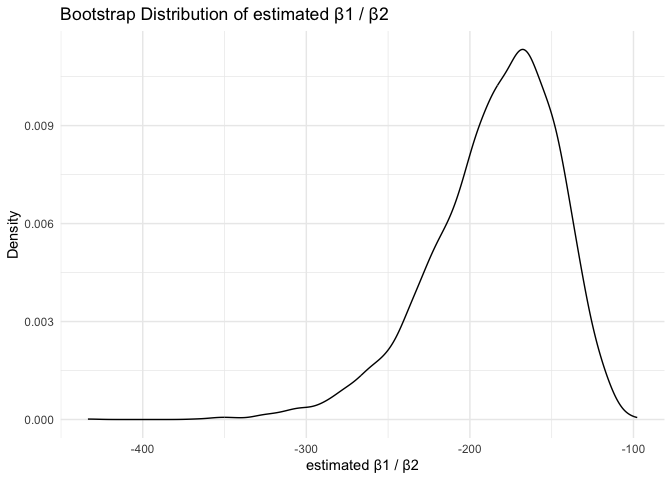
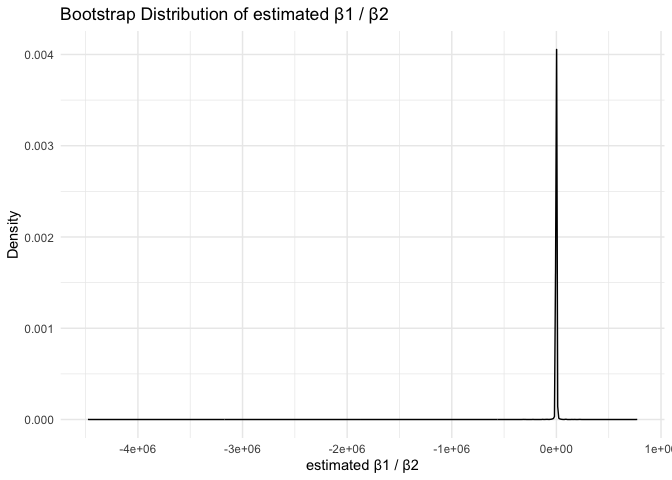
format updatted

diff --git a/p8105_hw6_ym3077.md b/p8105_hw6_ym3077.md
@@ -29,20 +29,6 @@ library(modelr)
     ##     bootstrap
 
 ``` r
-library(mgcv)
-```
-
-    ## Loading required package: nlme
-    ## 
-    ## Attaching package: 'nlme'
-    ## 
-    ## The following object is masked from 'package:dplyr':
-    ## 
-    ##     collapse
-    ## 
-    ## This is mgcv 1.9-3. For overview type 'help("mgcv-package")'.
-
-``` r
 library(ggplot2)
 library(p8105.datasets)
 ```
@@ -151,7 +137,7 @@ city_OR = homicides_df |>
   select(city_state, tidy_result) |>
   unnest(tidy_result) |>
   filter(term == "victim_sexMale") |>
-  select(city_state, OR, OR_low, OR_high)
+  select(city_state, OR, OR_low, OR_high) 
 ```
 
     ## Warning: There were 43 warnings in `mutate()`.
@@ -162,58 +148,23 @@ city_OR = homicides_df |>
     ## ℹ Run `dplyr::last_dplyr_warnings()` to see the 42 remaining warnings.
 
 ``` r
-knitr::kable(city_OR, digits = 3)
+city_OR
 ```
 
-| city_state         |    OR | OR_low | OR_high |
-|:-------------------|------:|-------:|--------:|
-| Albuquerque, NM    | 1.767 |  0.825 |   3.762 |
-| Atlanta, GA        | 1.000 |  0.680 |   1.458 |
-| Baltimore, MD      | 0.426 |  0.324 |   0.558 |
-| Baton Rouge, LA    | 0.381 |  0.204 |   0.684 |
-| Birmingham, AL     | 0.870 |  0.571 |   1.314 |
-| Boston, MA         | 0.674 |  0.353 |   1.277 |
-| Buffalo, NY        | 0.521 |  0.288 |   0.936 |
-| Charlotte, NC      | 0.884 |  0.551 |   1.391 |
-| Chicago, IL        | 0.410 |  0.336 |   0.501 |
-| Cincinnati, OH     | 0.400 |  0.231 |   0.667 |
-| Columbus, OH       | 0.532 |  0.377 |   0.748 |
-| Denver, CO         | 0.479 |  0.233 |   0.962 |
-| Detroit, MI        | 0.582 |  0.462 |   0.734 |
-| Durham, NC         | 0.812 |  0.382 |   1.658 |
-| Fort Worth, TX     | 0.669 |  0.394 |   1.121 |
-| Fresno, CA         | 1.335 |  0.567 |   3.048 |
-| Houston, TX        | 0.711 |  0.557 |   0.906 |
-| Indianapolis, IN   | 0.919 |  0.678 |   1.241 |
-| Jacksonville, FL   | 0.720 |  0.536 |   0.965 |
-| Las Vegas, NV      | 0.837 |  0.606 |   1.151 |
-| Long Beach, CA     | 0.410 |  0.143 |   1.024 |
-| Los Angeles, CA    | 0.662 |  0.457 |   0.954 |
-| Louisville, KY     | 0.491 |  0.301 |   0.784 |
-| Memphis, TN        | 0.723 |  0.526 |   0.984 |
-| Miami, FL          | 0.515 |  0.304 |   0.873 |
-| Milwaukee, wI      | 0.727 |  0.495 |   1.054 |
-| Minneapolis, MN    | 0.947 |  0.476 |   1.881 |
-| Nashville, TN      | 1.034 |  0.681 |   1.556 |
-| New Orleans, LA    | 0.585 |  0.422 |   0.812 |
-| New York, NY       | 0.262 |  0.133 |   0.485 |
-| Oakland, CA        | 0.563 |  0.364 |   0.867 |
-| Oklahoma City, OK  | 0.974 |  0.623 |   1.520 |
-| Omaha, NE          | 0.382 |  0.199 |   0.711 |
-| Philadelphia, PA   | 0.496 |  0.376 |   0.650 |
-| Pittsburgh, PA     | 0.431 |  0.263 |   0.696 |
-| Richmond, VA       | 1.006 |  0.483 |   1.994 |
-| San Antonio, TX    | 0.705 |  0.393 |   1.238 |
-| Sacramento, CA     | 0.669 |  0.326 |   1.314 |
-| Savannah, GA       | 0.867 |  0.419 |   1.780 |
-| San Bernardino, CA | 0.500 |  0.166 |   1.462 |
-| San Diego, CA      | 0.413 |  0.191 |   0.830 |
-| San Francisco, CA  | 0.608 |  0.312 |   1.155 |
-| St. Louis, MO      | 0.703 |  0.530 |   0.932 |
-| Stockton, CA       | 1.352 |  0.626 |   2.994 |
-| Tampa, FL          | 0.808 |  0.340 |   1.860 |
-| Tulsa, OK          | 0.976 |  0.609 |   1.544 |
-| Washington, DC     | 0.690 |  0.465 |   1.012 |
+    ## # A tibble: 47 × 4
+    ##    city_state         OR OR_low OR_high
+    ##    <chr>           <dbl>  <dbl>   <dbl>
+    ##  1 Albuquerque, NM 1.77   0.825   3.76 
+    ##  2 Atlanta, GA     1.00   0.680   1.46 
+    ##  3 Baltimore, MD   0.426  0.324   0.558
+    ##  4 Baton Rouge, LA 0.381  0.204   0.684
+    ##  5 Birmingham, AL  0.870  0.571   1.31 
+    ##  6 Boston, MA      0.674  0.353   1.28 
+    ##  7 Buffalo, NY     0.521  0.288   0.936
+    ##  8 Charlotte, NC   0.884  0.551   1.39 
+    ##  9 Chicago, IL     0.410  0.336   0.501
+    ## 10 Cincinnati, OH  0.400  0.231   0.667
+    ## # ℹ 37 more rows
 
 Create a plot that shows the estimated ORs and CIs for each city.
 Organize cities according to estimated OR, and comment on the plot.
@@ -261,6 +212,7 @@ set.seed(1)
 ``` r
 weather_boot <- 
   weather_df |> 
+  filter(name == "CentralPark_NY") |>
   drop_na(tmax, tmin, prcp) |>
   modelr::bootstrap(n = 5000) |>
   mutate(
@@ -274,7 +226,24 @@ weather_boot <-
     })
   ) |>
   select(-strap, -fit)
+
+weather_boot
 ```
+
+    ## # A tibble: 5,000 × 3
+    ##    .id      r2 beta_ratio
+    ##    <chr> <dbl>      <dbl>
+    ##  1 0001  0.913      -237.
+    ##  2 0002  0.921      -424.
+    ##  3 0003  0.905     -1492.
+    ##  4 0004  0.921      -364.
+    ##  5 0005  0.906      -461.
+    ##  6 0006  0.915      -634.
+    ##  7 0007  0.919      -808.
+    ##  8 0008  0.905     -2435.
+    ##  9 0009  0.917      -723.
+    ## 10 0010  0.916      -344.
+    ## # ℹ 4,990 more rows
 
 Plot the distribution of your estimates, and describe these in words.
 
@@ -312,10 +281,12 @@ ratioplot
 
 ![](p8105_hw6_ym3077_files/figure-gfm/unnamed-chunk-10-1.png)<!-- -->
 The bootstrap distribution of estimated β1 / β2 (ratio of the
-coefficient on tmin to the coefficient on prcp) is left-skewed, ranging
-from -400 to -100; suggesting large sampling variability in the ratio of
-coefficients. This is expected as ratios of cofficients are often
-unstable especially when one coefficient is near zero.
+coefficient on tmin to the coefficient on prcp) is left-skewed, most
+estimated ratios pile up near zero, while a few samples generate very
+large negative or negative estimate ratio. This happens may due to the
+precipitation coefficient β2 is often close to zero in many bootstrap
+samples, causing the ratio becomes numerically explosive, and the
+distribution of the estimated ratio is highly skewed.
 
 Using the 5000 bootstrap estimates, identify the 2.5% and 97.5%
 quantiles to provide a 95% confidence interval for r² and β1 / β2 ratio
@@ -327,17 +298,17 @@ weather_boot |>
     r2CI_high = quantile(r2, 0.975),
     ratioCI_low = quantile(beta_ratio, 0.025),
     ratioCI_high = quantile(beta_ratio, 0.975)
-  )
+  ) |>
+  knitr::kable(digits = 3)
 ```
 
-    ## # A tibble: 1 × 4
-    ##   r2CI_low r2CI_high ratioCI_low ratioCI_high
-    ##      <dbl>     <dbl>       <dbl>        <dbl>
-    ## 1    0.934     0.947       -275.        -125.
+| r2CI_low | r2CI_high | ratioCI_low | ratioCI_high |
+|---------:|----------:|------------:|-------------:|
+|    0.894 |     0.928 |   -5616.445 |     4586.923 |
 
 Using 5000 bootstrap samples, the 95% confidence interval for r² is
-approximately: (0.935, 0.947), the 95% confidence interval for the ratio
-of regression coefficients β1 and β2 is: (-278, -126).
+approximately: (0.894, 0.928), the 95% confidence interval for the ratio
+of regression coefficients β1 and β2 is: (-5578.631, 4637.765).
 
 ## Problem 3
 
@@ -434,13 +405,15 @@ summary(bw_mod)
 Birthweight can be determined by fetal size, gestational development,
 and maternal health beahviors and characteristics. Based on that I
 followed a hypothesis-driven modeling appproach focusing on relevant
-predictors: - fetal size indicators: `blength` (baby’s length at birth)
-and `bhead` (baby’s head circumference at birth); - gestational
-development: `gaweeks` (gestational age in weeks); - maternal
-characteristics and behavior indicators: `momage` (mother’s age at
-delivery), `smoken` (average number of cigarettes smoked per day during
-pregnancy), `ppbmi` (mother’s pre-pregnancy BMI), `ppwt` (mother’s
-pre-pregnancy weight), `wtgain` (mother’s weight gain during pregnancy)
+predictors:  
+- fetal size indicators: `blength` (baby’s length at birth) and `bhead`
+(baby’s head circumference at birth);  
+- gestational development: `gaweeks` (gestational age in weeks);  
+- maternal characteristics and behavior indicators: `momage` (mother’s
+age at delivery), `smoken` (average number of cigarettes smoked per day
+during pregnancy), `ppbmi` (mother’s pre-pregnancy BMI), `ppwt`
+(mother’s pre-pregnancy weight), `wtgain` (mother’s weight gain during
+pregnancy)
 
 ``` r
 birthweight |>
@@ -457,6 +430,7 @@ birthweight |>
 ```
 
 ![](p8105_hw6_ym3077_files/figure-gfm/unnamed-chunk-14-1.png)<!-- -->
+
 This plot shows no strong nonlinear pattern between residuals and fitted
 values, suggesting the linear model is mostly appropriate. There is mild
 heteroscedasticity with larger residuals spread at higher fitted values.
@@ -513,3 +487,35 @@ cv_result
     ##   rmse_bw rmse_main rmse_int
     ##     <dbl>     <dbl>    <dbl>
     ## 1    280.      333.     289.
+
+Plot the prediction error distribution for each candidate model
+
+``` r
+cv_plot = cv_bw |>
+  select(starts_with("rmse")) |>
+  pivot_longer(everything(),
+               names_to = "model",
+               values_to = "rmse",
+               names_prefix = "rmse_") |>
+  mutate(model = fct_inorder(model)) |>
+  ggplot(aes(x = model, y = rmse)) + geom_violin() +
+  labs(
+    x = "Model",
+    y = "RMSE",
+    title = "Cross-validated RMSE distribution for birthweight models"
+  ) +
+  theme_minimal()
+cv_plot
+```
+
+![](p8105_hw6_ym3077_files/figure-gfm/unnamed-chunk-17-1.png)<!-- -->
+
+- The “bw” model has the lowest RMSE distribution overall, centered
+  around 280.7.
+- The main-effects model (main) performs the worst, with RMSE centered
+  around 334.7, and a wider distribution.
+- The interaction model (int) performs better than the main-effects
+  model, with RMSE centered around 289.8, but is still worse than the
+  “bw” model.  
+  Therefore, the my bw model has best predictive performance with lowest
+  RMSE.
